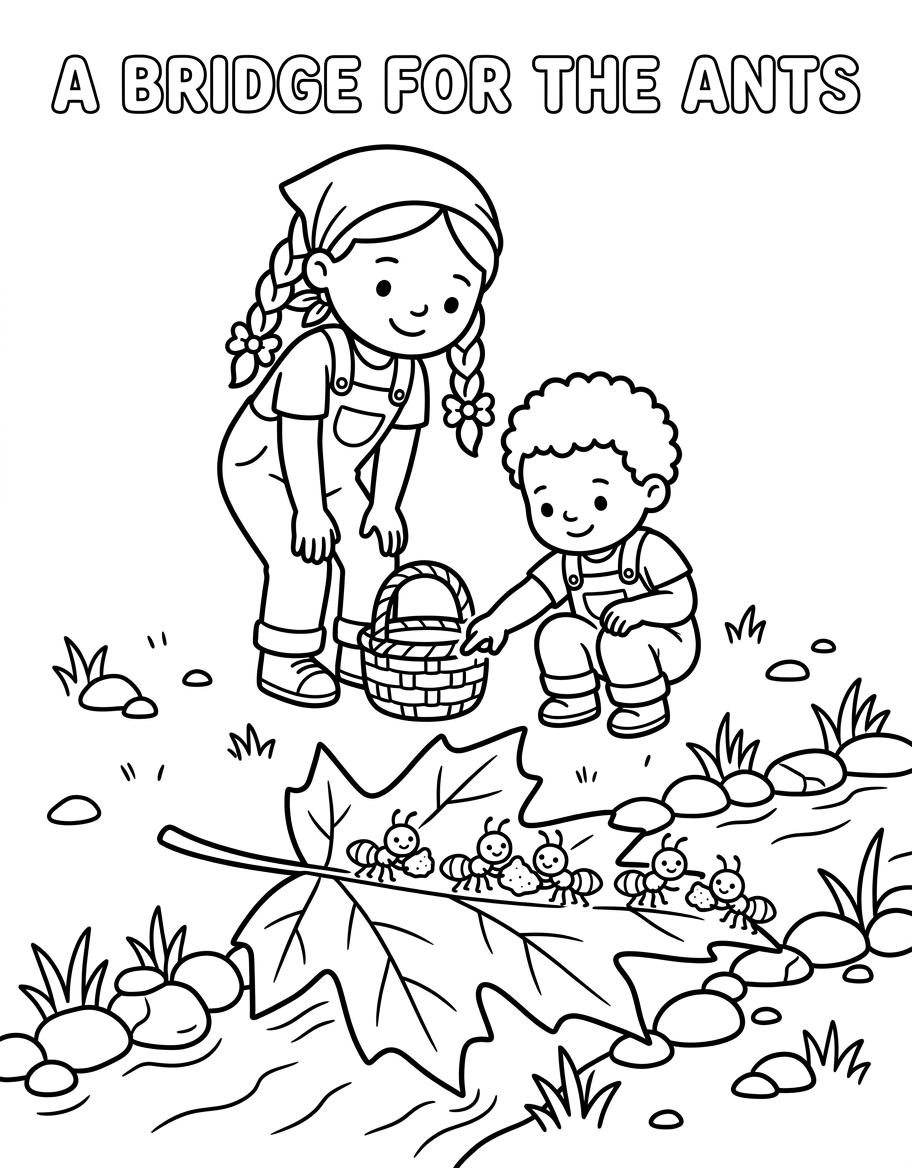
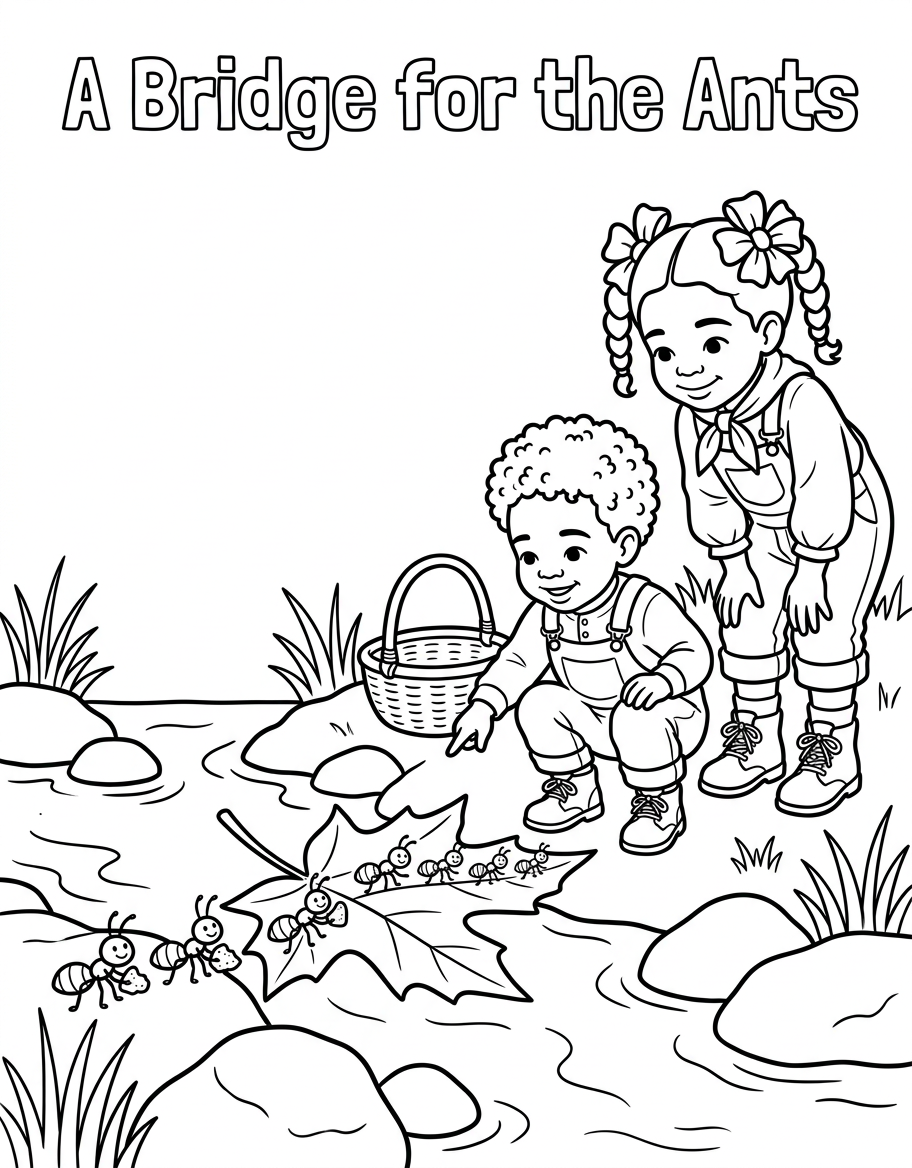
Coloring book batch 1: cover + 9 pages approved, p05 queued for regen

diff --git a/docs/product-line.md b/docs/product-line.md
@@ -16,7 +16,7 @@ Each page converts its source spread's composition (spread attached as reference
 | `page-02-our-first-treasure.png` | Our First Treasure | Unit 2 | ✅ approved (was style sample) |
 | `page-03-acorns-for-the-squirrel.png` | Acorns for the Squirrel | Unit 3 | ✅ approved |
 | `page-04-feather-for-the-bird.png` | A Feather for the Bird | Unit 5 | ✅ approved |
-| `page-05-flowers-for-the-bees.png` | Flowers for the Bees | Unit 6 | ✅ approved |
+| `page-05-flowers-for-the-bees.png` | Flowers for the Bees | Unit 6 | ❌ regen: filled-black butterfly |
 | `page-06-care-for-the-lamb.png` | Care for the Lamb | Unit 8 | ✅ approved |
 | `page-07-resting-under-the-oak.png` | Resting Under the Oak | Unit 9 | ✅ approved |
 | `page-08-whoosh.png` | Whoosh! | Unit 11 | ✅ approved |

diff --git a/README.md b/README.md
@@ -42,5 +42,6 @@ See `docs/canon-decisions.md`.
 - [x] Batch 2: 4 approved (11 total: 1-4, 6, 8, 10-13, 15)
 - [x] Batch 3: all 15 spreads approved — MAIN BOOK COMPLETE
 - [ ] Final QA + print layout
-- [x] Coloring book batch 1: cover + pp01-10 approved (11/13 files); pp11-12 + wall art next
+- [x] Coloring book batch 1: 11/13 approved (cover + 10 pages)
+- [ ] Coloring book batch 2: p05 regen + p11/p12 + wall art 01-03
 - [ ] Wall art: 6-print set (p06 approved, 2 exist in assets/, 3 to go)
